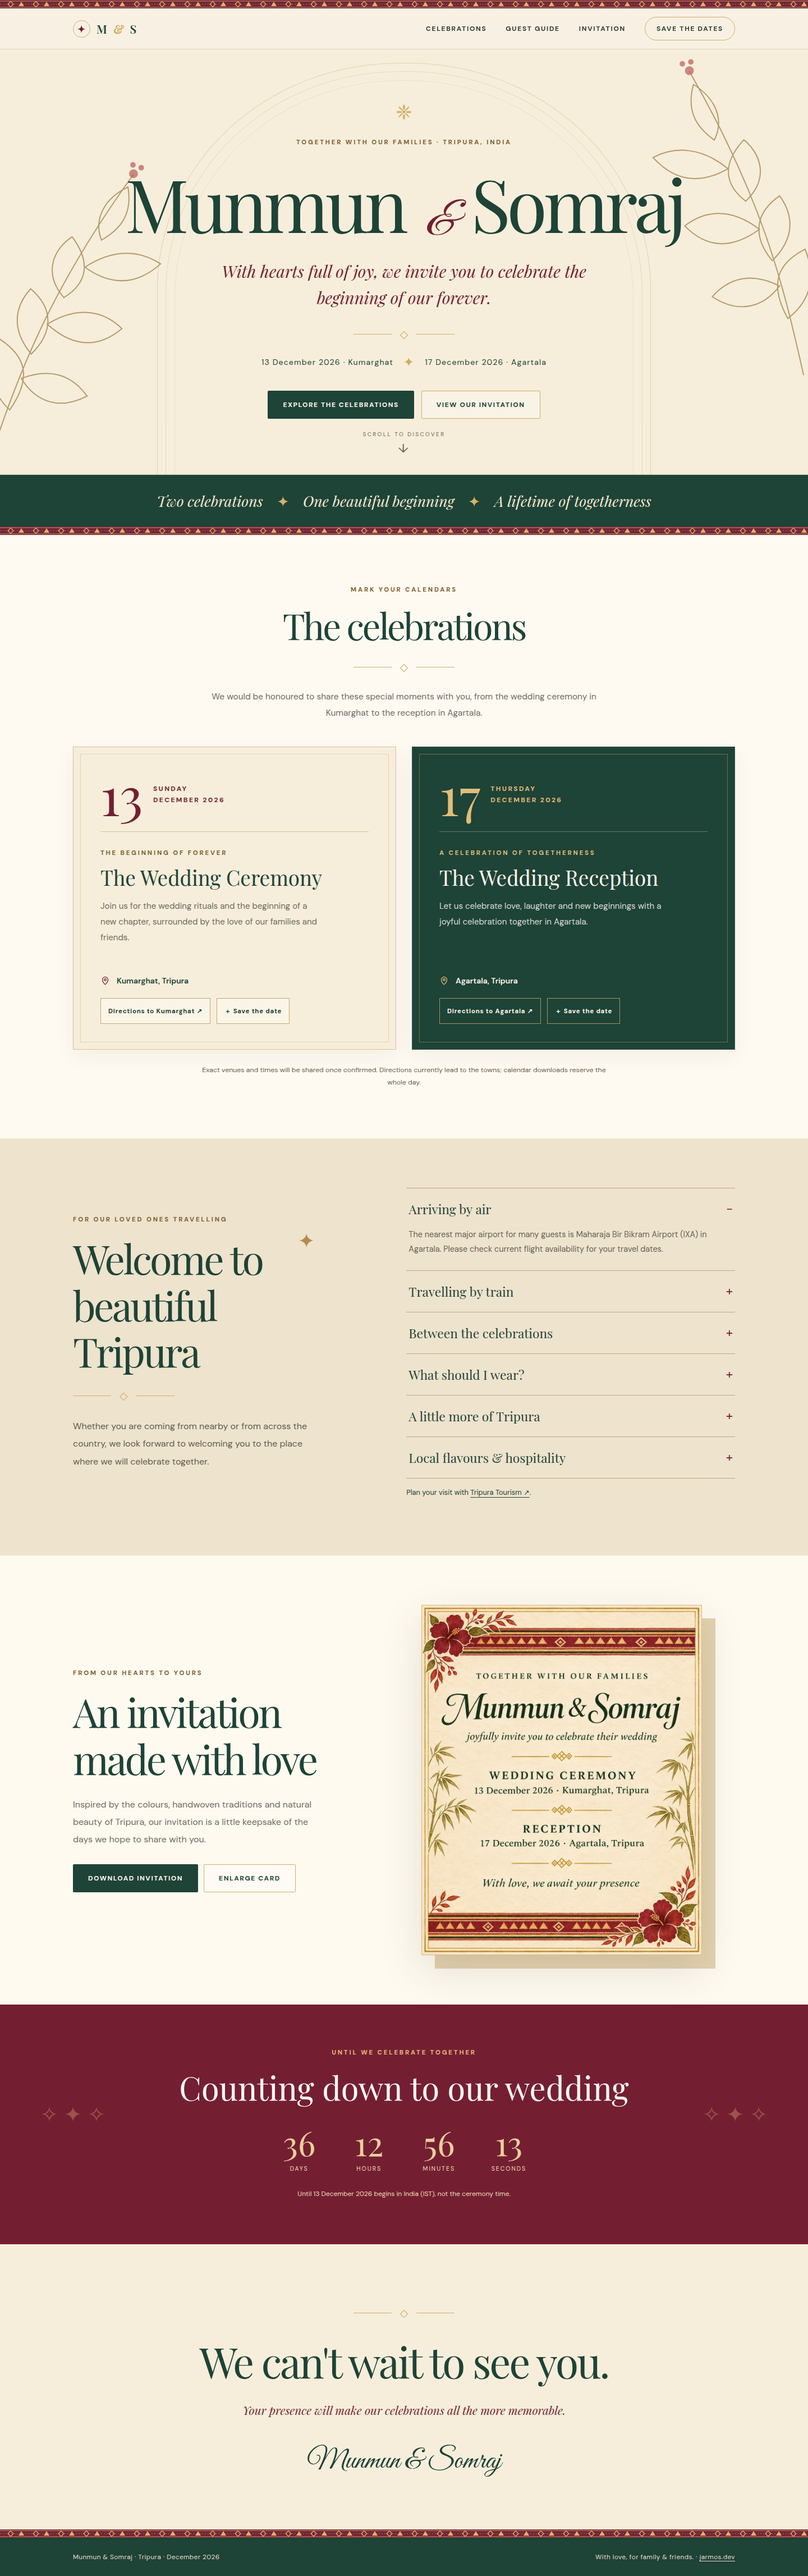
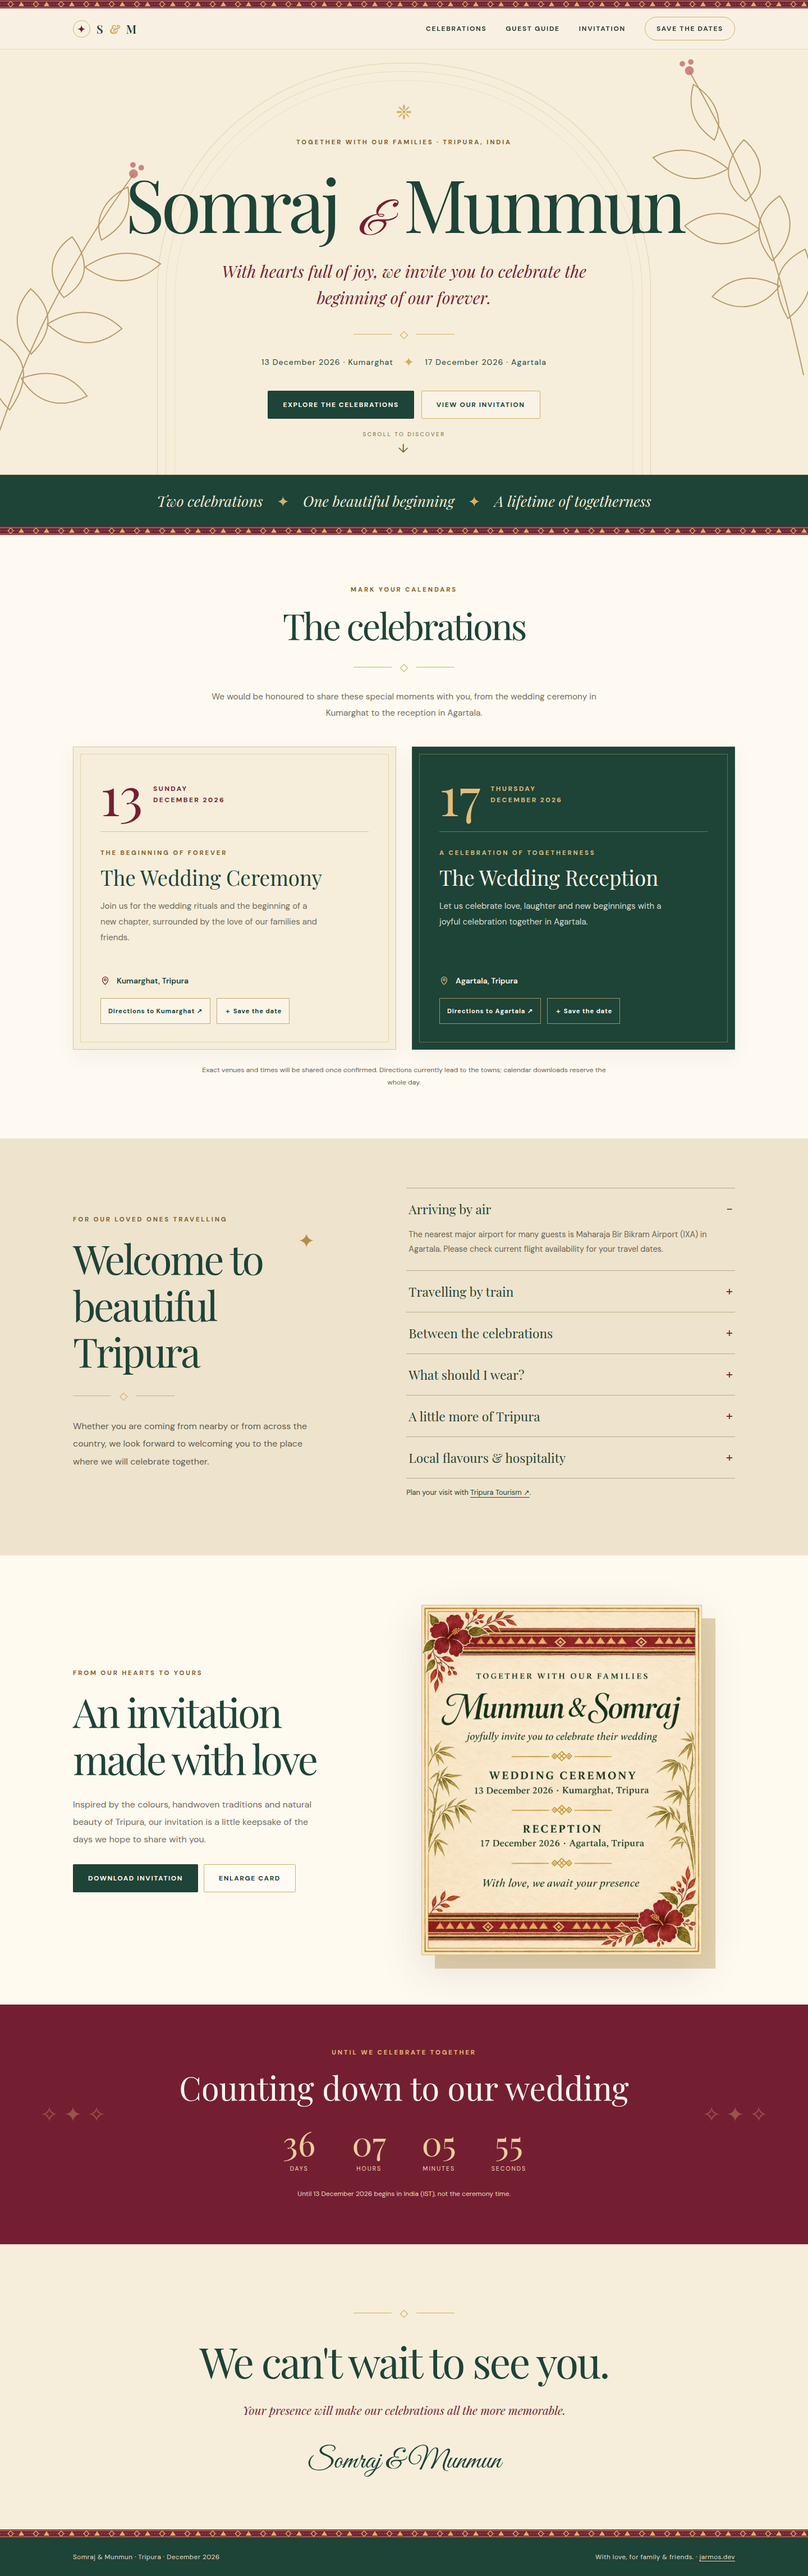
fix: put the groom's name first throughout the site
Order the couple as Somraj & Munmun in the page title, metadata,
structured data, hero, footer, monogram, favicon, calendar files,
web manifest and README. Regenerate the social card, PNG icons and
review screenshots to match. Mark .ics files as CR-at-EOL so the
whitespace check accepts their RFC 5545 line endings.

diff --git a/index.html b/index.html
@@ -6,12 +6,12 @@
     <meta name="theme-color" content="#741F31" />
     <meta
       name="description"
-      content="Celebrate the wedding of Munmun and Somraj in Kumarghat on 13 December 2026 and their reception in Agartala on 17 December 2026."
+      content="Celebrate the wedding of Somraj and Munmun in Kumarghat on 13 December 2026 and their reception in Agartala on 17 December 2026."
     />
     <meta property="og:type" content="website" />
     <meta
       property="og:title"
-      content="Munmun & Somraj — A Wedding in Tripura"
+      content="Somraj & Munmun — A Wedding in Tripura"
     />
     <meta
       property="og:description"
@@ -27,19 +27,19 @@
     <link rel="apple-touch-icon" href="apple-touch-icon.png" sizes="180x180" />
     <link rel="manifest" href="site.webmanifest" />
     <meta property="og:url" content="https://wedding.jarmos.dev/" />
-    <meta property="og:site_name" content="Munmun &amp; Somraj" />
+    <meta property="og:site_name" content="Somraj &amp; Munmun" />
     <meta property="og:locale" content="en_IN" />
     <meta property="og:image:width" content="1200" />
     <meta property="og:image:height" content="630" />
     <meta
       property="og:image:alt"
-      content="Munmun and Somraj — 13 and 17 December 2026, Tripura"
+      content="Somraj and Munmun — 13 and 17 December 2026, Tripura"
     />
     <meta name="twitter:card" content="summary_large_image" />
     <meta name="twitter:url" content="https://wedding.jarmos.dev/" />
     <meta
       name="twitter:title"
-      content="Munmun &amp; Somraj — A Wedding in Tripura"
+      content="Somraj &amp; Munmun — A Wedding in Tripura"
     />
     <meta
       name="twitter:description"
@@ -49,7 +49,7 @@
       name="twitter:image"
       content="https://wedding.jarmos.dev/assets/social-card.png"
     />
-    <title>Munmun & Somraj | Wedding & Reception · Tripura 2026</title>
+    <title>Somraj & Munmun | Wedding & Reception · Tripura 2026</title>
     <link rel="preconnect" href="https://fonts.googleapis.com" />
     <link rel="preconnect" href="https://fonts.gstatic.com" crossorigin />
     <link
@@ -62,7 +62,7 @@
         {
           "@context": "https://schema.org",
           "@type": "Event",
-          "name": "Wedding of Munmun and Somraj",
+          "name": "Wedding of Somraj and Munmun",
           "startDate": "2026-12-13",
           "endDate": "2026-12-13",
           "eventStatus": "https://schema.org/EventScheduled",
@@ -79,12 +79,12 @@
           },
           "image": "https://wedding.jarmos.dev/assets/social-card.png",
           "url": "https://wedding.jarmos.dev/#celebrations",
-          "description": "The wedding ceremony of Munmun and Somraj in Kumarghat, Tripura."
+          "description": "The wedding ceremony of Somraj and Munmun in Kumarghat, Tripura."
         },
         {
           "@context": "https://schema.org",
           "@type": "Event",
-          "name": "Reception of Munmun and Somraj",
+          "name": "Reception of Somraj and Munmun",
           "startDate": "2026-12-17",
           "endDate": "2026-12-17",
           "eventStatus": "https://schema.org/EventScheduled",
@@ -101,7 +101,7 @@
           },
           "image": "https://wedding.jarmos.dev/assets/social-card.png",
           "url": "https://wedding.jarmos.dev/#celebrations",
-          "description": "The wedding reception of Munmun and Somraj in Agartala, Tripura."
+          "description": "The wedding reception of Somraj and Munmun in Agartala, Tripura."
         }
       ]
     </script>
@@ -111,10 +111,10 @@
     <div class="weave" aria-hidden="true"></div>
     <header class="site-header">
       <nav class="container nav" aria-label="Main navigation">
-        <a class="brand" href="#home" aria-label="Munmun and Somraj, home"
-          ><span class="brand-mark" aria-hidden="true">✦</span> M
+        <a class="brand" href="#home" aria-label="Somraj and Munmun, home"
+          ><span class="brand-mark" aria-hidden="true">✦</span> S
           <span style="font-style: italic; color: var(--gold)">&</span>
-          S</a
+          M</a
         >
         <button
           type="button"
@@ -202,7 +202,7 @@
           <div class="hero-mark" aria-hidden="true">❈</div>
           <p class="eyebrow">Together with our families · Tripura, India</p>
           <h1 id="heroTitle" class="display">
-            <span>Munmun</span> <em>&</em> <span>Somraj</span>
+            <span>Somraj</span> <em>&</em> <span>Munmun</span>
           </h1>
           <p class="hero-sub">
             With hearts full of joy, we invite you to celebrate the beginning of
@@ -447,7 +447,7 @@
             <div class="invite-actions">
               <a
                 class="btn btn-solid"
-                download="Munmun-and-Somraj-Wedding-Invitation.png"
+                download="Somraj-and-Munmun-Wedding-Invitation.png"
                 href="assets/wedding-invitation.png"
                 >Download invitation</a
               ><a
@@ -465,7 +465,7 @@
               width="1122"
               height="1402"
               src="assets/wedding-invitation.webp"
-              alt="Invitation card for Munmun and Somraj, wedding 13 December 2026 in Kumarghat and reception 17 December 2026 in Agartala"
+              alt="Invitation card for Somraj and Munmun, wedding 13 December 2026 in Kumarghat and reception 17 December 2026 in Agartala"
             />
           </div>
         </div>
@@ -498,14 +498,14 @@
         <div class="gold-separator" aria-hidden="true">◇</div>
         <h2>We can't wait to see you.</h2>
         <p>Your presence will make our celebrations all the more memorable.</p>
-        <div class="closing-name">Munmun & Somraj</div>
+        <div class="closing-name">Somraj & Munmun</div>
       </section>
     </main>
 
     <div class="weave" aria-hidden="true"></div>
     <footer>
       <div class="container">
-        <span>Munmun & Somraj · Tripura · December 2026</span
+        <span>Somraj & Munmun · Tripura · December 2026</span
         ><span
           >With love, for family &amp; friends. ·
           <a href="https://jarmos.dev" target="_blank" rel="noopener noreferrer"
@@ -532,12 +532,12 @@
           width="1122"
           height="1402"
           src="assets/wedding-invitation.webp"
-          alt="Munmun and Somraj invite you to their wedding on 13 December 2026 in Kumarghat and reception on 17 December 2026 in Agartala, Tripura."
+          alt="Somraj and Munmun invite you to their wedding on 13 December 2026 in Kumarghat and reception on 17 December 2026 in Agartala, Tripura."
         />
       </div>
       <a
         class="btn btn-solid"
-        download="Munmun-and-Somraj-Wedding-Invitation.png"
+        download="Somraj-and-Munmun-Wedding-Invitation.png"
         href="assets/wedding-invitation.png"
         >Download invitation</a
       >

diff --git a/README.md b/README.md
@@ -1,4 +1,4 @@
-# Munmun & Somraj — Wedding in Tripura
+# Somraj & Munmun — Wedding in Tripura
 
 A responsive, buildless wedding invitation for 13 December 2026 in Kumarghat and
 17 December 2026 in Agartala. Plain HTML, CSS and JavaScript; no backend or runtime
